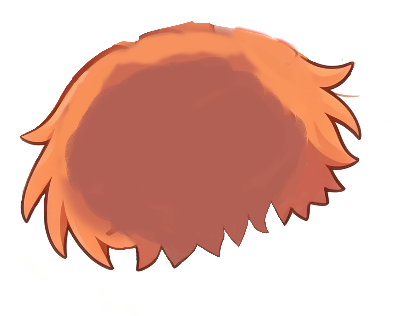
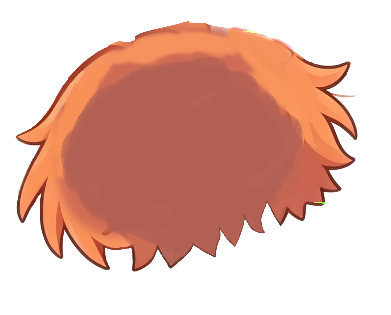
feat(狐狐形态): 换成主人重画后的 v2 素材（20 层，裤子鞋子已重画）
- 新 PSD：ArtPlanet/pictures/1792742390311.psd（21 层，含新层 23/25，旧鞋层 21 已并入）
- 按主人给的「从上到下」顺序（3 15 5 10 6 8 13 9 25 7 11 12 17 16 18 14 19 20 22 23）
  反转得到绘制顺序，逐层抽取（STEP=4 + 去白边）→ assets/fox 共 20 张 472KB
- 画布 543x626，画布内 scale 0.105 → 屏幕 57x66 CSS px
- CSS/DOM 全量重建（定位由 PSD 包围盒自动换算），影子沿用 CSS 补的柔和椭圆
- 真机验证：20 个部件全部加载，狐狐 57x66 显示正常
- 待确认：part25 / layer13 / layer19 三层的用途（主人还没说）

diff --git a/app/src/main/assets/pet.html b/app/src/main/assets/pet.html
@@ -733,10 +733,8 @@
     37%, 40% { opacity: 1; } 41%, 46% { opacity: 0; } 47%, 100% { opacity: 0; }
   }
 
-  /* ===== 狐狐形态（分层插画，2026-10-23）=====
-     素材：主人在画世界画的 Q 版小狐狸，PSD 21 层拆解 → 逐层抽出透明 PNG（并做过"去白边"处理：
-     把半透明像素按 alpha 反推真实颜色，消除白底残留的白边）。
-     零件画布 548x656，画布内缩放 0.117 → 屏幕约 64x77 CSS px。*/
+  /* ===== 狐狐形态（分层插画 v2，2026-10-23 主人重画裤子鞋子后重新导出）=====
+     素材：画世界 PSD 逐层抽取（去白边），画布 543x626，画布内 scale 0.105 → 屏幕约 57 CSS px 宽。*/
   .fox { display: none; }
   .pet[data-form="fox"] .fox { display: block; }
   .pet[data-form="fox"] .body,
@@ -747,40 +745,40 @@
   .pet[data-form="fox"] .toy { display: none !important; }
 
   .fox {
-    position: absolute; left: 50%; bottom: 0; width: 548px; height: 656px;
-    transform: translateX(-50%) scale(.104); transform-origin: bottom center;   /* 0.104 → 屏幕约 57x68，顶部留出余量 */
+    position: absolute; left: 50%; bottom: 0; width: 543px; height: 626px;
+    transform: translateX(-50%) scale(0.105); transform-origin: bottom center;
     pointer-events: none;
   }
   .fox-inner { position: absolute; inset: 0; animation: foxIdle 2.8s ease-in-out infinite; }
   @keyframes foxIdle { 0%,100% { transform: translateY(0); } 50% { transform: translateY(-2px); } }
   .fox img.fx { position: absolute; display: block; }
-  /* 地上的影子（画稿里没画，用 CSS 补一个柔和椭圆）*/
   .fox .fox-shadow {
-    position: absolute; left: 96px; bottom: -6px; width: 360px; height: 34px;
+    position: absolute; left: 92px; bottom: -4px; width: 360px; height: 30px;
     background: rgba(0,0,0,.22); border-radius: 50%; filter: blur(9px);
   }
 
-    .fx-tail { left: 307px; top: 368px; width: 240px; height: 255px; }
-    .fx-shoes { left: 177px; top: 510px; width: 188px; height: 144px; }
-    .fx-pants { left: 173px; top: 350px; width: 211px; height: 276px; }
-    .fx-layer19 { left: 233px; top: 393px; width: 101px; height: 94px; }
-    .fx-neck-hands { left: 263px; top: 305px; width: 55px; height: 65px; }
-    .fx-sleeves { left: 207px; top: 302px; width: 150px; height: 147px; }
-    .fx-top { left: 199px; top: 299px; width: 190px; height: 160px; }
-    .fx-hair-back { left: 58px; top: 84px; width: 418px; height: 316px; }
-    .fx-ear-L { left: 0px; top: 139px; width: 143px; height: 177px; }
-    .fx-head { left: 128px; top: 128px; width: 269px; height: 270px; }
-    .fx-mouth { left: 253px; top: 303px; width: 26px; height: 19px; }
-    .fx-eyes { left: 155px; top: 195px; width: 180px; height: 131px; }
-    .fx-ear-R { left: 211px; top: 0px; width: 188px; height: 169px; }
-    .fx-fur-under-ear-L { left: 44px; top: 205px; width: 107px; height: 125px; }
-    .fx-bangs { left: 64px; top: 85px; width: 381px; height: 294px; }
-    .fx-layer13 { left: 67px; top: 50px; width: 148px; height: 127px; }
-    .fx-fur-under-ear-R { left: 264px; top: 79px; width: 112px; height: 98px; }
-    .fx-hair-highlight { left: 125px; top: 180px; width: 211px; height: 98px; }
-    .fx-hair-tuft { left: 151px; top: 173px; width: 104px; height: 45px; }
+    .fx-shoes { left: 188px; top: 514px; width: 167px; height: 111px; }
+    .fx-tail { left: 306px; top: 369px; width: 236px; height: 216px; }
+    .fx-pants { left: 178px; top: 347px; width: 201px; height: 268px; }
+    .fx-layer19 { left: 232px; top: 390px; width: 101px; height: 94px; }
+    .fx-hair-back { left: 61px; top: 81px; width: 391px; height: 315px; }
+    .fx-neck-hands { left: 262px; top: 302px; width: 55px; height: 65px; }
+    .fx-top { left: 198px; top: 296px; width: 188px; height: 159px; }
+    .fx-sleeves { left: 211px; top: 299px; width: 145px; height: 143px; }
+    .fx-ear-L { left: 0px; top: 137px; width: 142px; height: 176px; }
+    .fx-fur-under-ear-L { left: 45px; top: 202px; width: 105px; height: 121px; }
+    .fx-head { left: 127px; top: 126px; width: 251px; height: 268px; }
+    .fx-part25 { left: 196px; top: 264px; width: 139px; height: 72px; }
+    .fx-mouth { left: 252px; top: 300px; width: 26px; height: 19px; }
+    .fx-layer13 { left: 70px; top: 58px; width: 126px; height: 116px; }
+    .fx-eyes { left: 154px; top: 192px; width: 180px; height: 131px; }
+    .fx-bangs { left: 63px; top: 82px; width: 375px; height: 293px; }
+    .fx-ear-R { left: 210px; top: 0px; width: 188px; height: 165px; }
+    .fx-fur-under-ear-R { left: 263px; top: 76px; width: 92px; height: 98px; }
+    .fx-hair-highlight { left: 124px; top: 177px; width: 211px; height: 98px; }
+    .fx-hair-tuft { left: 150px; top: 170px; width: 104px; height: 45px; }
 
-  /* --- 小动画：眨眼 / 尾巴摇 / 耳朵抖 / 呆毛晃 --- */
+  /* 小动画 */
   .fx-eyes { transform-origin: center center; animation: foxBlink 4.2s ease-in-out infinite; }
   @keyframes foxBlink { 0%, 93%, 100% { transform: scaleY(1); } 95.5% { transform: scaleY(.12); } }
   .fx-tail { transform-origin: 12% 8%; animation: foxTail 3.6s ease-in-out infinite; }
@@ -791,6 +789,8 @@
   @keyframes foxEarR { 0%,100% { transform: rotate(0); } 40% { transform: rotate(3.5deg); } 70% { transform: rotate(-1.5deg); } }
   .fx-hair-tuft { transform-origin: bottom left; animation: foxTuft 2.4s ease-in-out infinite; }
   @keyframes foxTuft { 0%,100% { transform: rotate(0); } 50% { transform: rotate(5deg); } }
+  .fx-hair-highlight { animation: foxShine 4.8s ease-in-out infinite; }
+  @keyframes foxShine { 0%,100% { opacity: 1; } 50% { opacity: .85; } }
 
   /* ===== 思考泡泡（2026-10-21 加）=====
      一朵细线云 + 三个轮流闪的点 + 两颗从云飘向头顶的尾巴小圆。
@@ -1059,24 +1059,25 @@
     <span class="ball b1"></span>
     <span class="ball b2"></span>
     <span class="ball b3"></span>
-    <!-- 狐狐形态：19 个分层部件（素材来自主人的画世界作品，PSD 拆层后导出） -->
+    <!-- 狐狐形态：20 个分层部件（主人画世界作品，PSD 逐层导出，去白边） -->
     <div class="fox"><span class="fox-shadow"></span><div class="fox-inner">
-      <img class="fx fx-tail" src="fox/tail.png" alt="">
       <img class="fx fx-shoes" src="fox/shoes.png" alt="">
+      <img class="fx fx-tail" src="fox/tail.png" alt="">
       <img class="fx fx-pants" src="fox/pants.png" alt="">
       <img class="fx fx-layer19" src="fox/layer19.png" alt="">
-      <img class="fx fx-neck-hands" src="fox/neck-hands.png" alt="">
-      <img class="fx fx-sleeves" src="fox/sleeves.png" alt="">
-      <img class="fx fx-top" src="fox/top.png" alt="">
       <img class="fx fx-hair-back" src="fox/hair-back.png" alt="">
+      <img class="fx fx-neck-hands" src="fox/neck-hands.png" alt="">
+      <img class="fx fx-top" src="fox/top.png" alt="">
+      <img class="fx fx-sleeves" src="fox/sleeves.png" alt="">
       <img class="fx fx-ear-L" src="fox/ear-L.png" alt="">
-      <img class="fx fx-head" src="fox/head.png" alt="">
-      <img class="fx fx-mouth" src="fox/mouth.png" alt="">
-      <img class="fx fx-eyes" src="fox/eyes.png" alt="">
-      <img class="fx fx-ear-R" src="fox/ear-R.png" alt="">
       <img class="fx fx-fur-under-ear-L" src="fox/fur-under-ear-L.png" alt="">
-      <img class="fx fx-bangs" src="fox/bangs.png" alt="">
+      <img class="fx fx-head" src="fox/head.png" alt="">
+      <img class="fx fx-part25" src="fox/part25.png" alt="">
+      <img class="fx fx-mouth" src="fox/mouth.png" alt="">
       <img class="fx fx-layer13" src="fox/layer13.png" alt="">
+      <img class="fx fx-eyes" src="fox/eyes.png" alt="">
+      <img class="fx fx-bangs" src="fox/bangs.png" alt="">
+      <img class="fx fx-ear-R" src="fox/ear-R.png" alt="">
       <img class="fx fx-fur-under-ear-R" src="fox/fur-under-ear-R.png" alt="">
       <img class="fx fx-hair-highlight" src="fox/hair-highlight.png" alt="">
       <img class="fx fx-hair-tuft" src="fox/hair-tuft.png" alt="">
